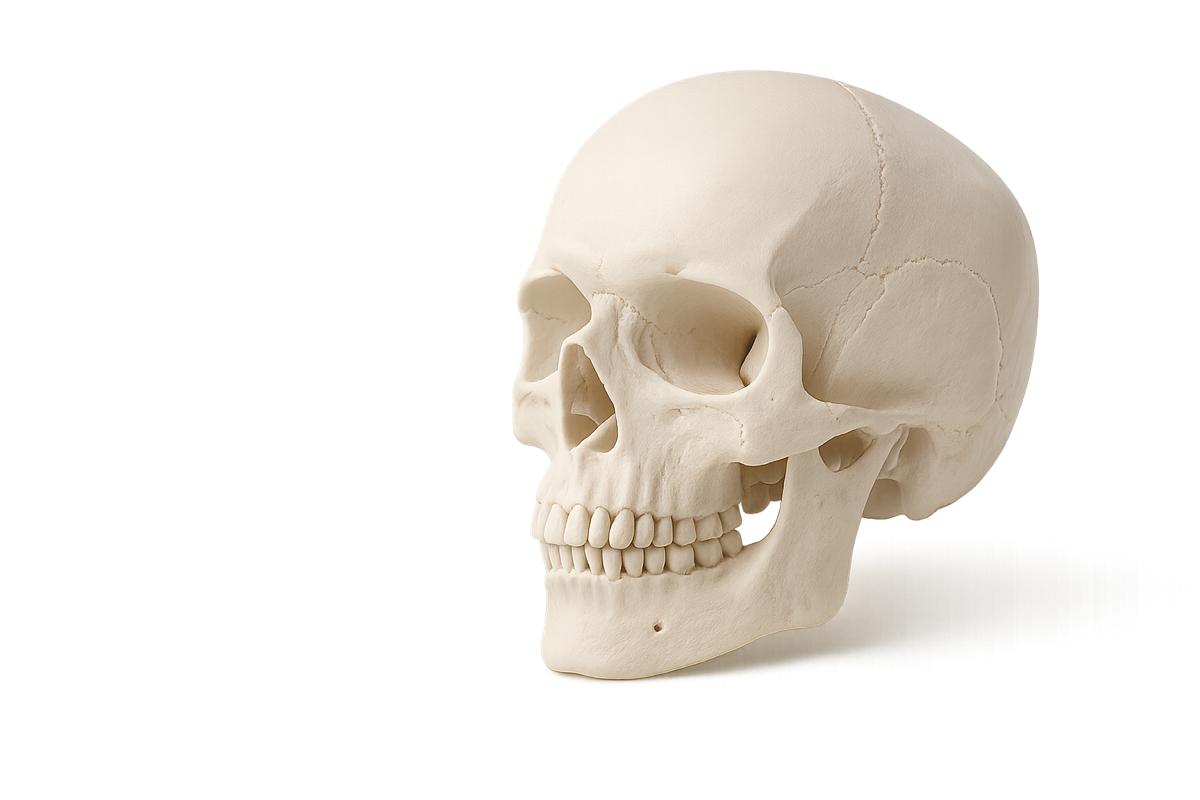
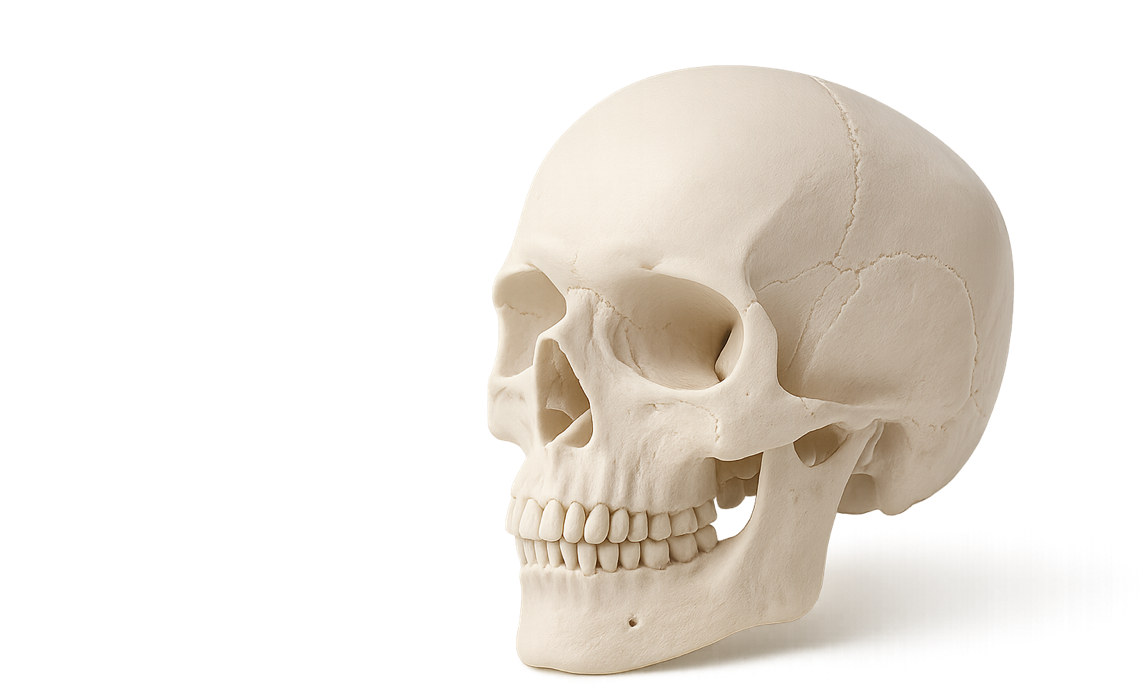
Changed background.png

diff --git a/src/components/hero-section.tsx b/src/components/hero-section.tsx
@@ -21,7 +21,7 @@ const transitionVariants = {
 
 export default function HeroSection() {
     return (
-        <section className="relative overflow-hidden pb-50 ">
+        <section className="relative overflow-hidden md:pb-50 pb-20">
             {/* Hintergrundbild (dockt unten an) */}
             <div className="absolute inset-0 -z-50 flex items-end">
                 <Image
